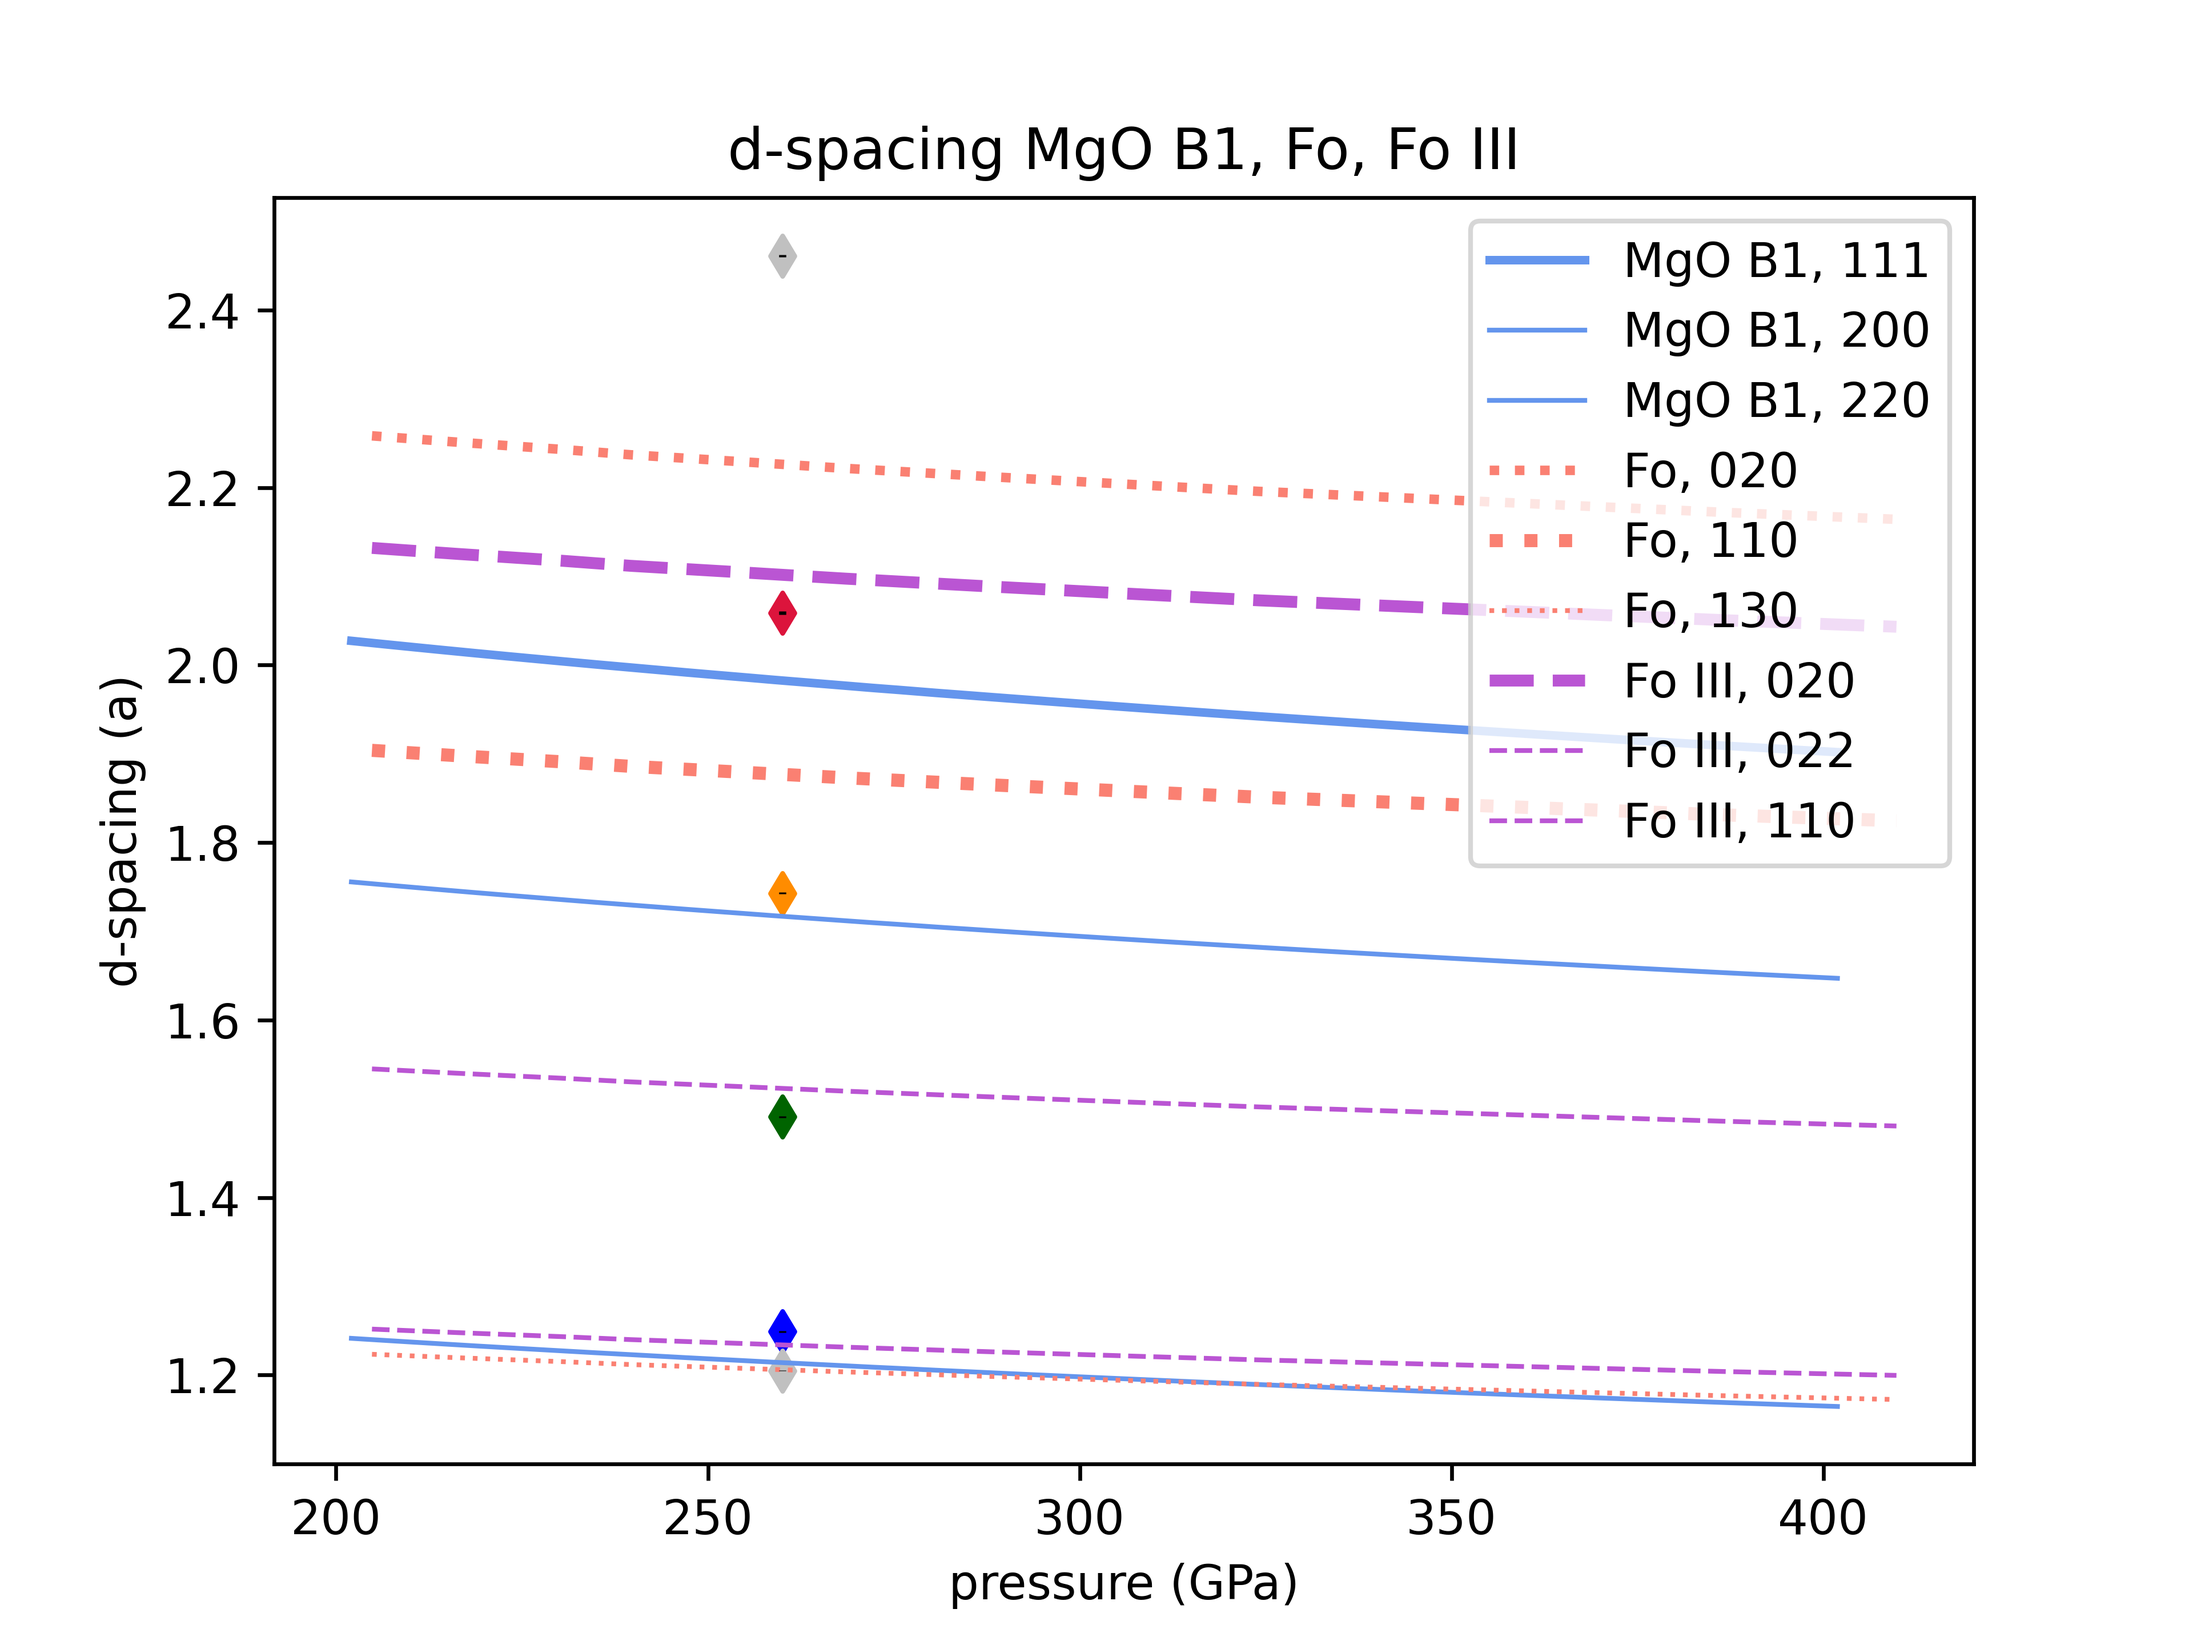
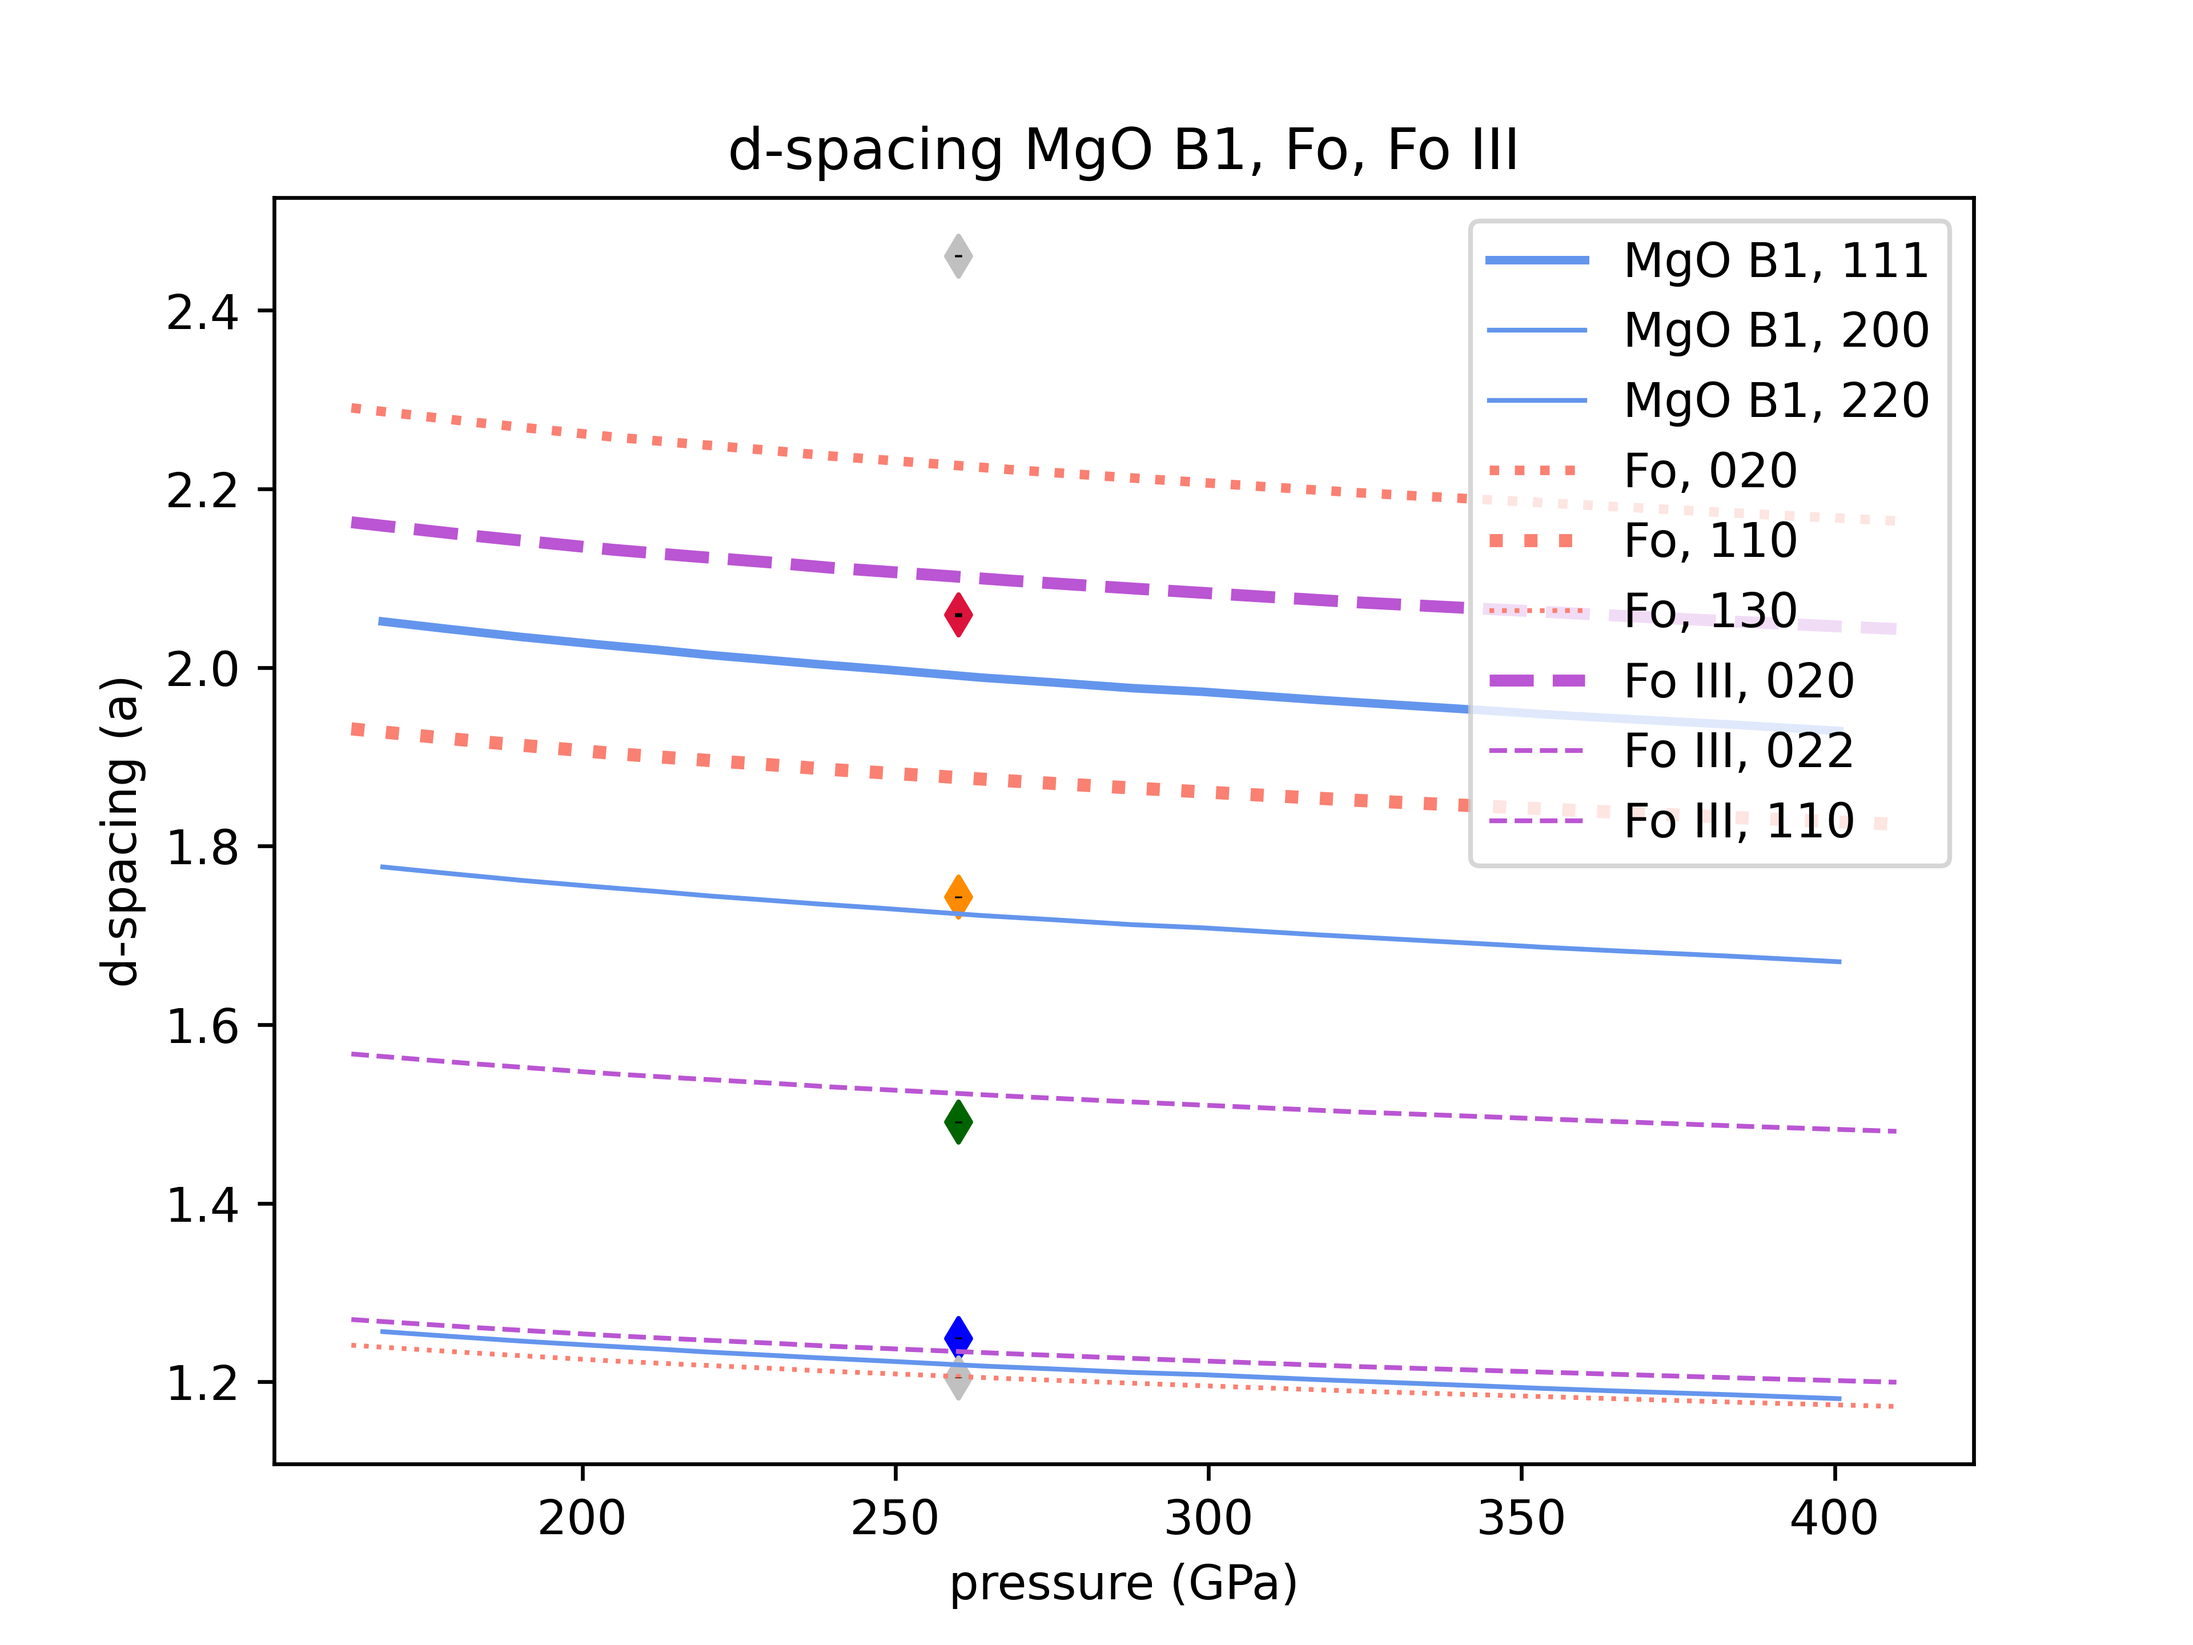
updates

diff --git a/combined_graph/make_combined_graph.py b/combined_graph/make_combined_graph.py
@@ -33,9 +33,9 @@ def dspacing_orthorhombic(rho,x,a0,b0,c0,m):
     b = b0/p
     c = c0/p
     return 1/math.sqrt(eval(h)**2/a**2+eval(k)**2/b**2+eval(l)**2/c**2)
-df_MgO = pd.read_csv("MgO_hugoniot_better.csv")
-df_LiF = pd.read_csv("LiF hugonoit.csv")
-df_Fo = pd.read_csv("forsterite_hugoniot_root.csv")
+df_MgO = pd.read_csv("MgO_hugonoit.csv")
+#df_LiF = pd.read_csv("LiF hugonoit.csv")
+df_Fo = pd.read_csv("forsterite_hugoniot.csv")
 for x in reflections_MgO:
     plt.plot(df_MgO.pressure, df_MgO.density.apply(dspacing_cubic, args = (x[0],6,m_MgO,)), label = f"MgO B1, {x[0]}", lw = x[1], c = "cornflowerblue")
 for x in reflections_Fo:
